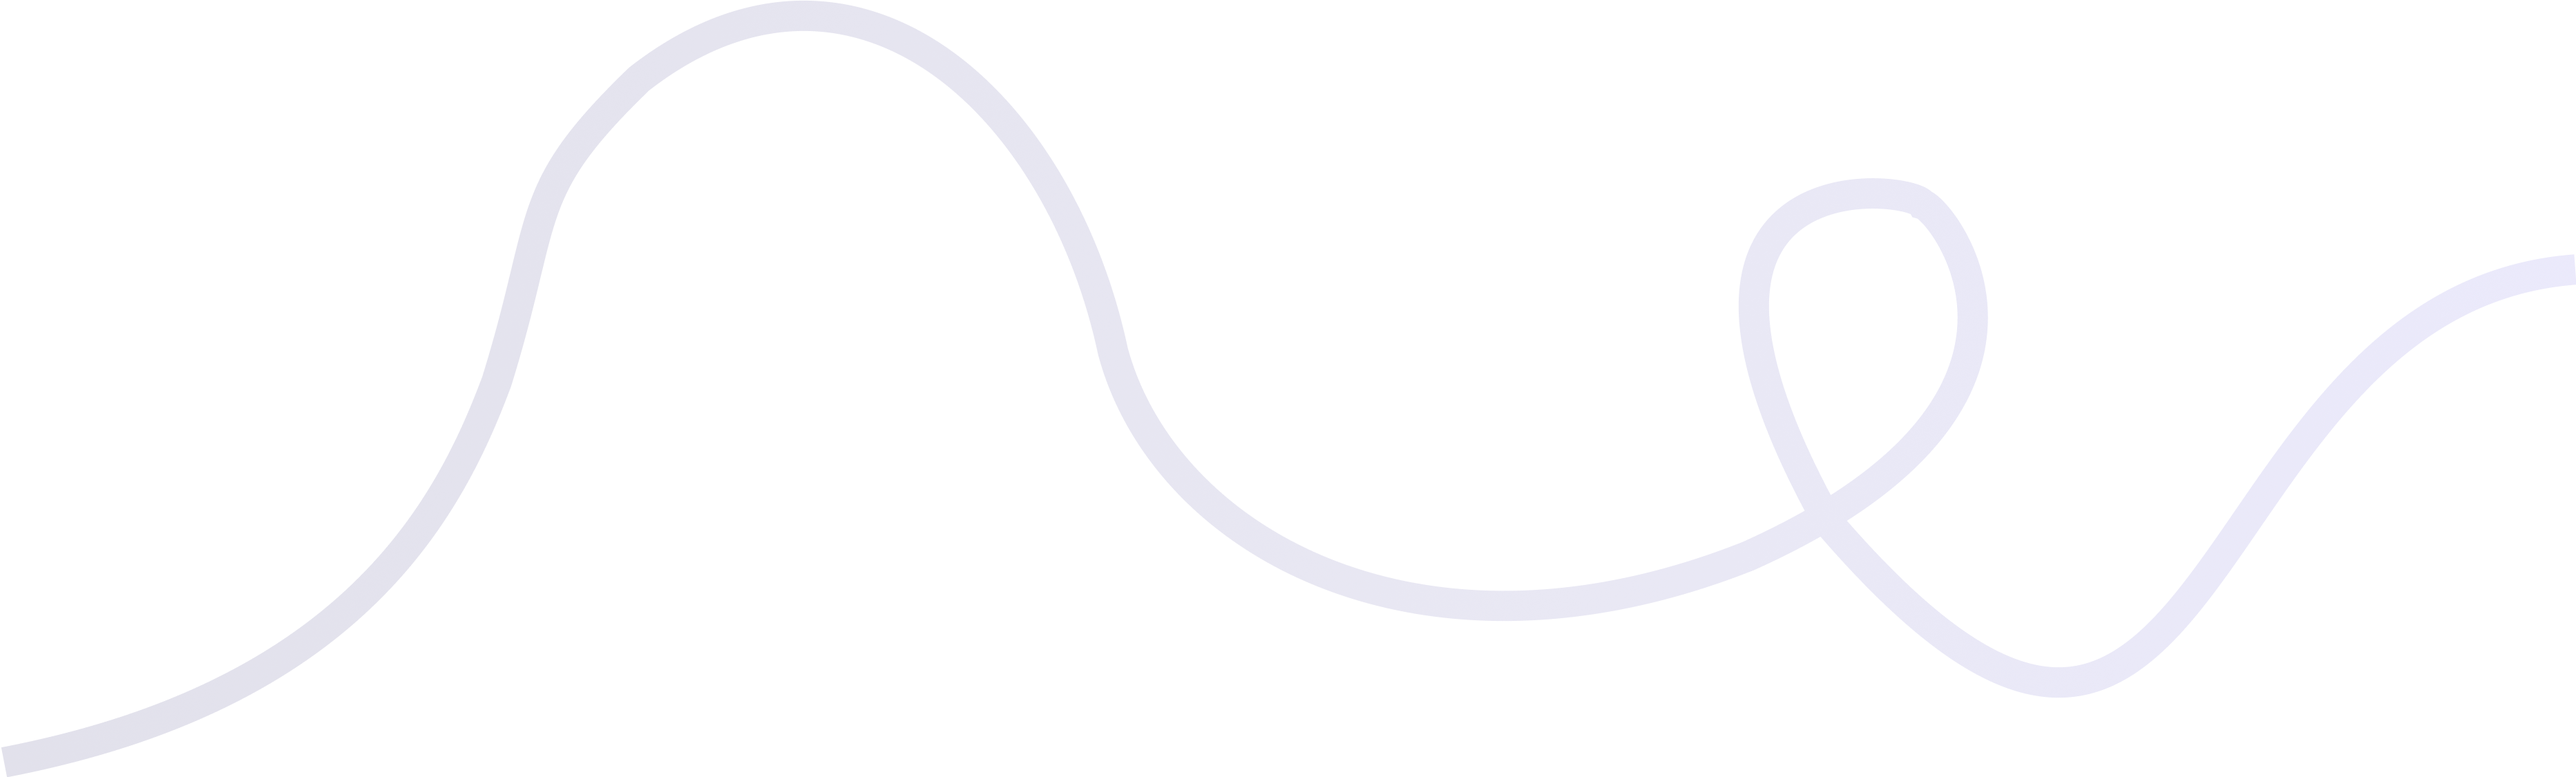
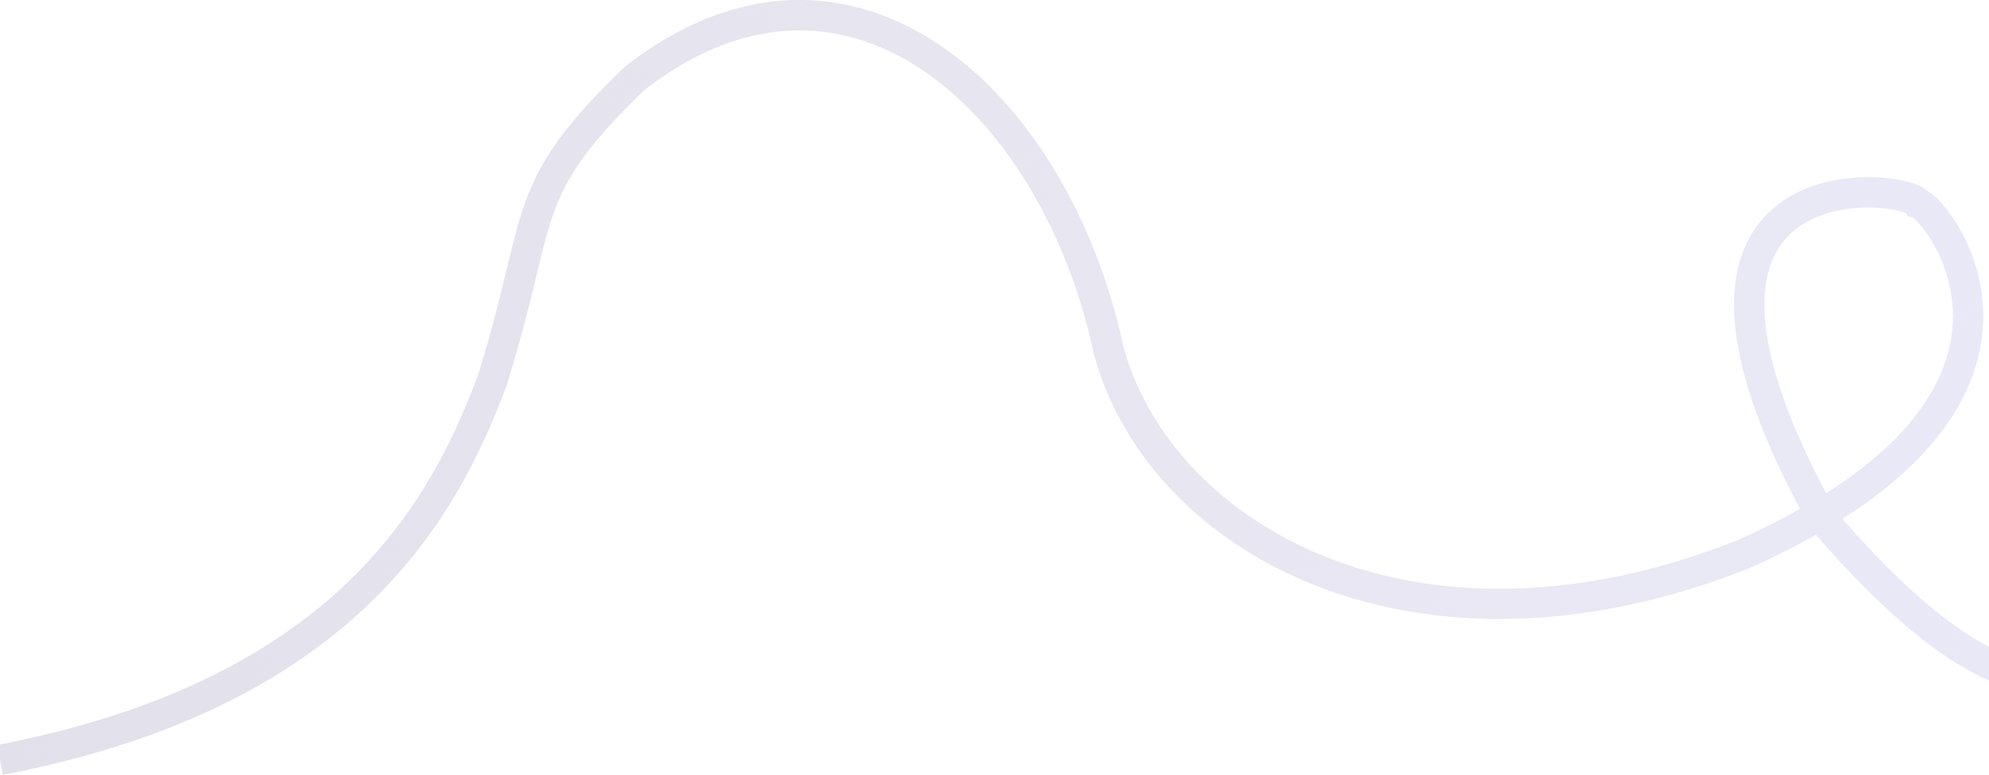
hero bg updated

Changed region(s): [[0.0312, 0.0, 0.625, 0.9982], [0.625, 0.6863, 0.6562, 0.7175]]

diff --git a/assets/css/sb-main-style.css b/assets/css/sb-main-style.css
@@ -183,7 +183,7 @@ svg {
   transition: all 0.3s ease;
 }
 
-.relative, .sb-about .sb-row .sb-media, .sb-faq .sb-questions-wrapper .sb-faq-item .sb-faq-question h4, .sb-video .sb-video-frame, .sb-video .sb-video-play-btn, .sb-card, .sb-simple-btn, .sb-button.icon-position-left, .sb-button, section {
+.relative, .sb-about .sb-row .sb-media, .sb-faq .sb-questions-wrapper .sb-faq-item .sb-faq-question h4, .sb-video .sb-video-frame, .sb-video .sb-video-play-btn, .sb-card, .sb-simple-btn, .sb-button.icon-position-left, .sb-button, .hero-bg, section {
   position: relative;
 }
 
@@ -333,7 +333,7 @@ section:after {
   background-color: transparent;
   background-image: -webkit-gradient(linear, left top, left bottom, from(transparent), color-stop(#2C2C31), to(transparent));
   background-image: linear-gradient(transparent, #2C2C31, transparent);
-  z-index: -1;
+  z-index: -2;
 }
 
 .container {
@@ -344,10 +344,26 @@ section:after {
 }
 
 .hero-bg {
+  overflow: hidden;
+  z-index: 1;
+}
+.hero-bg::before {
+  position: absolute;
+  content: "";
+  width: 100%;
+  height: 560px;
+  left: 0;
+  top: 0;
   background-image: url(../images/Salon-Boss-hreo-bg.png);
-  background-position: bottom center;
-  background-size: contain;
+  background-position: center;
+  background-size: cover;
   background-repeat: no-repeat;
+  z-index: -1;
+}
+@media only screen and (min-width: 1441px) {
+  .hero-bg::before {
+    height: 740px;
+  }
 }
 
 .sb-header-gutter {
@@ -2135,6 +2151,15 @@ section:after {
 
 .hero-home {
   margin-top: 30px;
+}
+.hero-home::before {
+  top: 230px;
+  background-image: url(../images/Salon-Boss-hreo-home-bg.png);
+}
+@media only screen and (min-width: 1441px) {
+  .hero-home::before {
+    height: 575px;
+  }
 }
 .hero-home .sb-row {
   gap: 80px;

diff --git a/assets/scss/_global.scss b/assets/scss/_global.scss
@@ -253,7 +253,7 @@ section {
         top: 0;
         background-color: transparent;
         background-image: linear-gradient(transparent, #2C2C31, transparent);
-        z-index: -1;
+        z-index: -2;
     }
 }
 .container {
@@ -263,10 +263,27 @@ section {
     padding: 0 25px;
 }
 .hero-bg {
-    background-image: url(../images/Salon-Boss-hreo-bg.png);
-    background-position: bottom center;
-    background-size: contain;
-    background-repeat: no-repeat;
+    @extend .relative;
+    overflow: hidden;
+    z-index: 1;
+    
+    &::before {
+        position: absolute;
+        content: "";
+        width: 100%;
+        height: 560px;
+        left: 0;
+        top: 0;
+        background-image: url(../images/Salon-Boss-hreo-bg.png);
+        background-position: center;
+        background-size: cover;
+        background-repeat: no-repeat;
+        z-index: -1;
+
+        @include minbreakpoint(1441) {
+            height: 740px;
+        }
+    }
 }
 .sb-header-gutter {
     padding-top: var(--header-height);

diff --git a/assets/scss/sb-main-style.scss b/assets/scss/sb-main-style.scss
@@ -9,6 +9,15 @@
 .hero-home {
     margin-top: 30px;
 
+
+    &::before {
+        top: 230px;
+        background-image: url(../images/Salon-Boss-hreo-home-bg.png);
+        
+        @include minbreakpoint(1441) {
+            height: 575px;
+        }
+    }
     .sb-row {
         gap: 80px;
         align-items: center;
